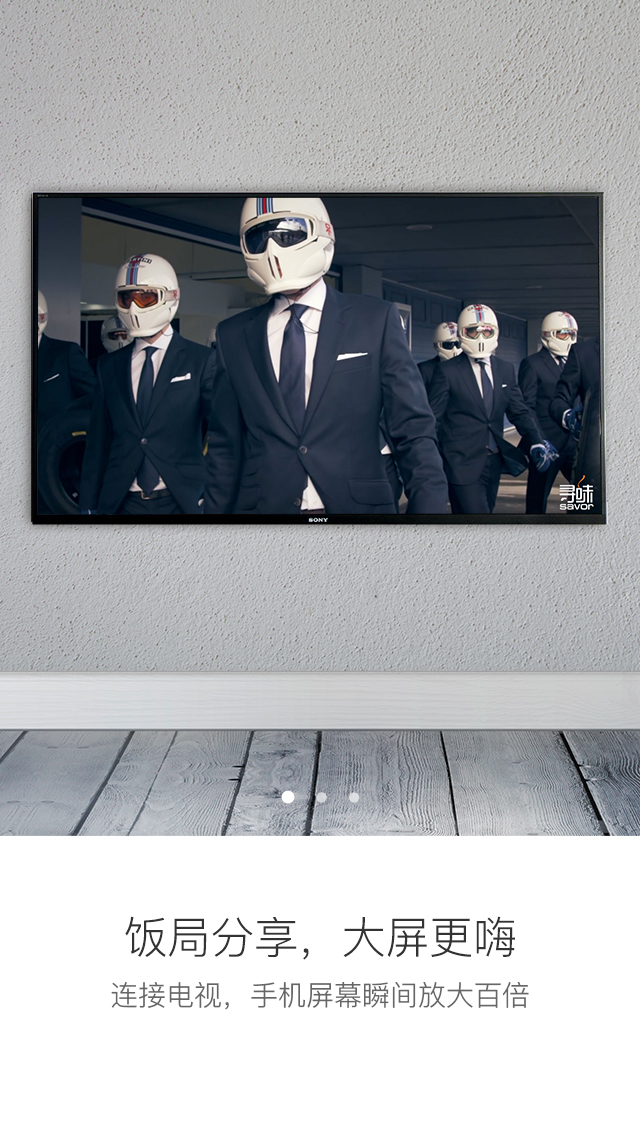
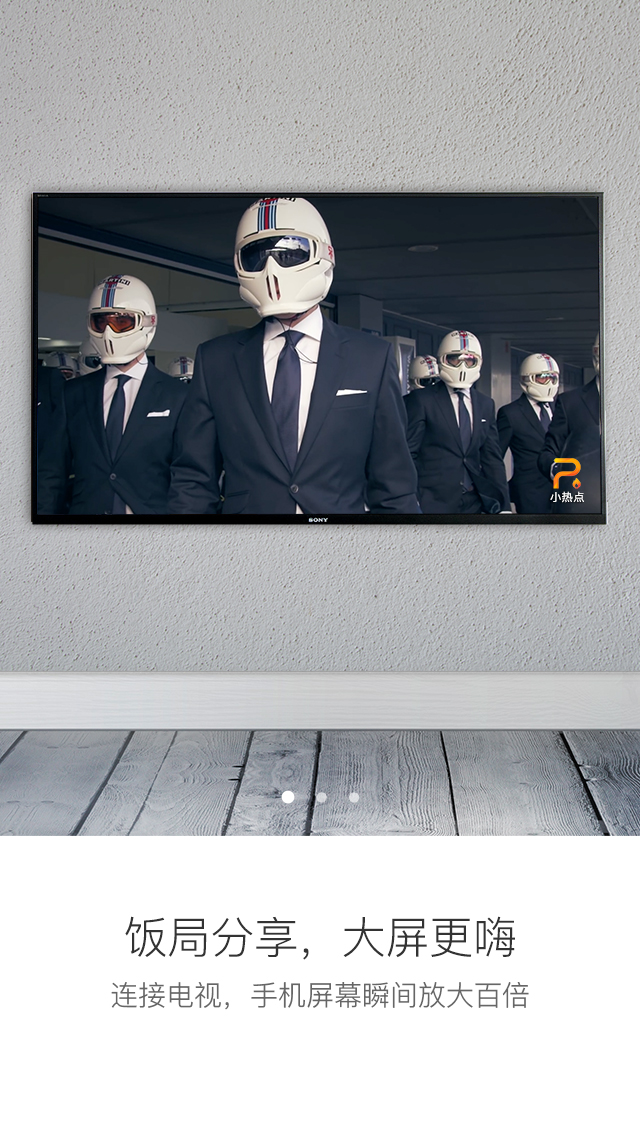
1、更改欢迎界面 2、优化首页和提示语适配 3、收藏界面增加分类标识 4、优化退出成功的全局通知

diff --git a/SavorX/SavorX/Views/Screen/PhotoEditTextView.m b/SavorX/SavorX/Views/Screen/PhotoEditTextView.m
@@ -63,7 +63,6 @@
     self.textField.leftView = [[UIView alloc] initWithFrame:CGRectMake(0, 0, 10, 30)];
     self.textField.leftViewMode = UITextFieldViewModeAlways;
     self.textField.delegate = self;
-    [self.textField addTarget:self action:@selector(textFieldDidChangeValue) forControlEvents:UIControlEventEditingChanged];
     [self.toolView addSubview:self.textField];
     
     UIButton * OKButton = [UIButton buttonWithType:UIButtonTypeCustom];
@@ -73,6 +72,7 @@
     [OKButton addTarget:self action:@selector(OKButtonDidBeClicked:) forControlEvents:UIControlEventTouchUpInside];
     [self.toolView addSubview:OKButton];
     
+    [[NSNotificationCenter defaultCenter] addObserver:self selector:@selector(textFieldValueDidBeChange:) name:UITextFieldTextDidChangeNotification object:nil];
     [[NSNotificationCenter
       defaultCenter] addObserver:self selector:@selector(keyboardWillShow:)
      name:UIKeyboardWillShowNotification object:nil];
@@ -81,18 +81,50 @@
      name:UIKeyboardWillHideNotification object:nil];//在这里注册通知
 }
 
-- (BOOL)textField:(UITextField *)textField shouldChangeCharactersInRange:(NSRange)range replacementString:(NSString *)string
+- (void)textFieldValueDidBeChange:(NSNotification *)obj
 {
-    if (self.style == PhotoEditTextStyleTitle) {
-        if (self.textField.text.length + string.length > 16) {
-            [MBProgressHUD showTextHUDwithTitle:@"最多只能添加16个字"];
-            return NO;
-        }
-    }else if (self.textField.text.length + string.length > 20){
-        [MBProgressHUD showTextHUDwithTitle:@"最多只能添加20个字"];
-        return NO;
+    UITextField *textField = (UITextField *)obj.object;
+    
+    NSString *toBeString = textField.text;
+    if (toBeString.length == 0) {
+        self.textLabel.text = @"点击输入文字";
+        return;
+    }else{
+        self.textLabel.text = toBeString;
     }
-    return YES;
+    
+    NSString *lang = [textField.textInputMode primaryLanguage]; // 键盘输入模式
+    
+    if ([lang isEqualToString:@"zh-Hans"]) { // 简体中文输入，包括简体拼音，健体五笔，简体手写
+        UITextRange *selectedRange = [textField markedTextRange];
+        //获取高亮部分
+        UITextPosition *position = [textField positionFromPosition:selectedRange.start offset:0];
+        
+        // 没有高亮选择的字，则对已输入的文字进行字数统计和限制
+        if (!position) {
+            
+            if (self.style == PhotoEditTextStyleTitle) {
+                if (toBeString.length > 16) {
+                    textField.text = [toBeString substringToIndex:16];
+                    [MBProgressHUD showTextHUDwithTitle:@"最多输入16个字符"];
+                }
+            }else if (toBeString.length > 20) {
+                textField.text = [toBeString substringToIndex:20];
+                [MBProgressHUD showTextHUDwithTitle:@"最多输入20个字符"];
+            }
+        }
+        // 有高亮选择的字符串，则暂不对文字进行统计和限制
+        else{
+            
+        }
+    }
+    // 中文输入法以外的直接对其统计限制即可，不考虑其他语种情况
+    else{
+        if (toBeString.length > 16) {
+            textField.text = [toBeString substringToIndex:16];
+            [MBProgressHUD showTextHUDwithTitle:@"最多输入16个字符"];
+        }
+    }
 }
 
 - (void)textLabelDidBeClicked
@@ -134,15 +166,6 @@
     
     [self removeFromSuperview];
     self.textLabel.frame = CGRectMake(40, -70, self.bounds.size.width - 80, 70);
-}
-
-- (void)textFieldDidChangeValue
-{
-    if (self.textField.text.length == 0) {
-        self.textLabel.text = @"点击输入文字";
-    }else{
-        self.textLabel.text = self.textField.text;
-    }
 }
 
 #pragma mark - 监听方法

diff --git a/SavorX/SavorX/Controllers/HomePage/RecommendViewController.m b/SavorX/SavorX/Controllers/HomePage/RecommendViewController.m
@@ -158,15 +158,21 @@
         NSDictionary * dict = response[@"result"];
         
         NSArray * vodArray = [dict objectForKey:@"vodList"];
-        for (NSInteger i = 0; i < vodArray.count; i++) {
-            NSDictionary * vodDict = [vodArray objectAtIndex:i];
-            HSVodModel * model = [[HSVodModel alloc] initWithDictionary:vodDict];
-            [self.dataSource addObject:model];
+        
+        if (vodArray) {
+            for (NSInteger i = 0; i < vodArray.count; i++) {
+                NSDictionary * vodDict = [vodArray objectAtIndex:i];
+                HSVodModel * model = [[HSVodModel alloc] initWithDictionary:vodDict];
+                [self.dataSource addObject:model];
+            }
+            self.pageNo++;
+            self.lastDownTime = [[dict objectForKey:@"time"] integerValue];
+            [self.tableView reloadData];
+            [self.tableView.mj_footer endRefreshing];
+        }else{
+            [self.tableView.mj_footer endRefreshingWithNoMoreData];
         }
-        self.pageNo++;
-        self.lastDownTime = [[dict objectForKey:@"time"] integerValue];
-        [self.tableView reloadData];
-        [self.tableView.mj_footer endRefreshing];
+        
     } businessFailure:^(BGNetworkRequest * _Nonnull request, id  _Nullable response) {
         if ([[response objectForKey:@"code"] integerValue] == 10060) {
             [self.tableView.mj_footer endRefreshingWithNoMoreData];
@@ -233,13 +239,15 @@
         return;
     }
     
+    CGFloat width = MIN(kMainBoundsHeight, kMainBoundsWidth);
+    
     NSMutableArray * array = [NSMutableArray new];
     
     for (NSInteger i = 0; i < self.adSourcel.count; i++) {
         HSAdsModel * model = [self.adSourcel objectAtIndex:i];
         [array addObject:model.imageURL];
     }
-    self.scrollView = [SDCycleScrollView cycleScrollViewWithFrame:CGRectMake(0, 5, kMainBoundsWidth, [Helper autoHomePageCellImageHeight]) imageURLStringsGroup:array];
+    self.scrollView = [SDCycleScrollView cycleScrollViewWithFrame:CGRectMake(0, 5, width, [Helper autoHomePageCellImageHeight]) imageURLStringsGroup:array];
     [self.scrollView setHotelTitle:self.hotelName];
     self.scrollView.delegate = self;
     [self.headView addSubview:self.scrollView];
@@ -463,10 +471,13 @@
 - (UIView *)headView
 {
     if (!_headView) {
-        _headView = [[UIView alloc] initWithFrame:CGRectMake(0, 0, kMainBoundsWidth, [Helper autoHomePageCellImageHeight] + 55)];
+        
+        CGFloat width = MIN(kMainBoundsHeight, kMainBoundsWidth);
+        
+        _headView = [[UIView alloc] initWithFrame:CGRectMake(0, 0, width, [Helper autoHomePageCellImageHeight] + 55)];
         _headView.backgroundColor = VCBackgroundColor;
         
-        UILabel * label = [[UILabel alloc] initWithFrame:CGRectMake(0, [Helper autoHomePageCellImageHeight] + 5, kMainBoundsWidth, 55)];
+        UILabel * label = [[UILabel alloc] initWithFrame:CGRectMake(0, [Helper autoHomePageCellImageHeight] + 5, width, 55)];
         label.font = [UIFont boldSystemFontOfSize:16];
         label.textColor = UIColorFromRGB(0x444444);
         label.textAlignment = NSTextAlignmentCenter;

diff --git a/SavorX/SavorX/Tools/SavorXAPI/SAVORXAPI.m b/SavorX/SavorX/Tools/SavorXAPI/SAVORXAPI.m
@@ -256,19 +256,23 @@
 
 + (void)ScreenDemandShouldBackToTV
 {
-    [[HomeAnimationView animationView] stopScreen];
-    [[NSNotificationCenter defaultCenter] postNotificationName:RDQiutScreenNotification object:nil];
     if ([GlobalData shared].isBindRD) {
         NSDictionary *parameters = @{@"function": @"stop",
                                      @"sessionid": [NSNumber numberWithInt:-1],
                                      @"reason": [NSNumber numberWithInt:0]};
         [SAVORXAPI postWithURL:STBURL parameters:parameters success:^(NSURLSessionDataTask *task, NSDictionary *result) {
             
+            [[HomeAnimationView animationView] stopScreen];
+            [[NSNotificationCenter defaultCenter] postNotificationName:RDQiutScreenNotification object:nil];
+            
         } failure:^(NSURLSessionDataTask *task, NSError *error) {
             
         }];
     }else if ([GlobalData shared].isBindDLNA) {
         [[GCCUPnPManager defaultManager] stopSuccess:^{
+            
+            [[HomeAnimationView animationView] stopScreen];
+            [[NSNotificationCenter defaultCenter] postNotificationName:RDQiutScreenNotification object:nil];
             
         } failure:^{
             
@@ -278,19 +282,24 @@
 
 + (void)ScreenDemandShouldBackToTVWithSuccess:(void (^)())successBlock failure:(void (^)())failureBlock
 {
-    [[HomeAnimationView animationView] stopScreen];
-    [[NSNotificationCenter defaultCenter] postNotificationName:RDQiutScreenNotification object:nil];
     if ([GlobalData shared].isBindRD) {
         NSDictionary *parameters = @{@"function": @"stop",
                                      @"sessionid": [NSNumber numberWithInt:-1],
                                      @"reason": [NSNumber numberWithInt:0]};
         [SAVORXAPI postWithURL:STBURL parameters:parameters success:^(NSURLSessionDataTask *task, NSDictionary *result) {
+            [[HomeAnimationView animationView] stopScreen];
+            [[NSNotificationCenter defaultCenter] postNotificationName:RDQiutScreenNotification object:nil];
+            
             successBlock();
+            
         } failure:^(NSURLSessionDataTask *task, NSError *error) {
             failureBlock();
         }];
     }else if ([GlobalData shared].isBindDLNA) {
         [[GCCUPnPManager defaultManager] stopSuccess:^{
+            [[HomeAnimationView animationView] stopScreen];
+            [[NSNotificationCenter defaultCenter] postNotificationName:RDQiutScreenNotification object:nil];
+            
             successBlock();
         } failure:^{
             failureBlock();

diff --git a/SavorX/SavorX/HelpLibs/WMPageController/WMPageController.m b/SavorX/SavorX/HelpLibs/WMPageController/WMPageController.m
@@ -813,7 +813,7 @@ static NSInteger const kWMControllerCountUndefined = -1;
     CGFloat oldContentOffsetX = self.scrollView.contentOffset.x;
     CGFloat contentWidth = self.scrollView.contentSize.width;
     scrollFrame.origin.y -= self.showOnNavigationBar && self.navigationController.navigationBar ? self.menuHeight : 0;
-    scrollFrame.origin.y = [Helper autoHeightWith:40];
+    scrollFrame.origin.y = self.menuHeight;
     self.scrollView.frame = scrollFrame;
     self.scrollView.contentSize = CGSizeMake(self.childControllersCount * _viewWidth, 0);
     CGFloat xContentOffset = contentWidth == 0 ? self.selectIndex * _viewWidth : oldContentOffsetX / contentWidth * self.childControllersCount * _viewWidth;
@@ -852,7 +852,7 @@ static NSInteger const kWMControllerCountUndefined = -1;
         }];
         CGFloat navHeight = self.navigationController.navigationBar.frame.size.height;
         menuHeight = self.menuHeight > navHeight ? navHeight : self.menuHeight;
-        menuY = (navHeight - menuHeight) / 2;
+//        menuY = (navHeight - menuHeight) / 2;
     }
     CGFloat menuWidth = _viewWidth - menuX - rightWidth;
     self.menuView.frame = CGRectMake(menuX, menuY, menuWidth, menuHeight);
@@ -1143,6 +1143,7 @@ static NSInteger const kWMControllerCountUndefined = -1;
     }
     [self.titleViewBtn setTitle:@"热点儿" forState:UIControlStateNormal];
     self.navigationItem.rightBarButtonItem = [[UIBarButtonItem alloc] initWithCustomView:self.rightItem];
+    [self.rightItem stopAnimation];
     self.titleViewBtn.userInteractionEnabled = NO;
 
 }

diff --git a/SavorX/SavorX/Controllers/FavoriteViewController.m b/SavorX/SavorX/Controllers/FavoriteViewController.m
@@ -8,7 +8,7 @@
 
 #import "FavoriteViewController.h"
 #import "WebViewController.h"
-#import "BasicTableViewCell.h"
+#import "HomePageCell.h"
 #import "UIImageView+WebCache.h"
 #import "UMCustomSocialManager.h"
 
@@ -74,9 +74,9 @@
 #pragma mark -- UITableViewDataSource
 - (UITableViewCell *)tableView:(UITableView *)tableView cellForRowAtIndexPath:(NSIndexPath *)indexPath
 {
-    BasicTableViewCell * cell = [tableView dequeueReusableCellWithIdentifier:FavoriteCell];
+    HomePageCell * cell = [tableView dequeueReusableCellWithIdentifier:FavoriteCell];
     if (nil == cell) {
-        cell = [[BasicTableViewCell alloc] initWithStyle:UITableViewCellStyleDefault reuseIdentifier:FavoriteCell];
+        cell = [[HomePageCell alloc] initWithStyle:UITableViewCellStyleDefault reuseIdentifier:FavoriteCell];
         cell.selectionStyle = UITableViewCellSelectionStyleNone;
     }
     HSVodModel * model = [self.dataSource objectAtIndex:indexPath.section];
@@ -87,6 +87,7 @@
         [cell videoCanDemand:NO];
     }
     
+    cell.categroyLabel.text = [NSString stringWithFormat:@"# %@", model.category];
     [cell.bgImageView sd_setImageWithURL:[NSURL URLWithString:[model.imageURL stringByAddingPercentEscapesUsingEncoding:NSUTF8StringEncoding]] placeholderImage:[UIImage imageNamed:@"placeholderImage"]];
     cell.titleLabel.text = model.title;
     

diff --git a/SavorX/SavorX/HelpLibs/MBProgressHUD+Custom/MBProgressHUD+Custom.m b/SavorX/SavorX/HelpLibs/MBProgressHUD+Custom/MBProgressHUD+Custom.m
@@ -198,6 +198,11 @@
         label.font = [UIFont systemFontOfSize:17];
         [view addSubview:label];
         [[UIApplication sharedApplication].keyWindow addSubview:view];
+        [view mas_makeConstraints:^(MASConstraintMaker *make) {
+            make.width.mas_equalTo(rect.size.width + 30);
+            make.height.mas_equalTo(rect.size.height + 20);
+            make.center.mas_equalTo([UIApplication sharedApplication].keyWindow);
+        }];
         
         [UIView animateWithDuration:0.5f delay:2.5f options:UIViewAnimationOptionCurveEaseInOut animations:^{
             view.alpha = 0.f;

diff --git a/SavorX/SavorX/Helper/Helper.m b/SavorX/SavorX/Helper/Helper.m
@@ -161,14 +161,16 @@
 + (CGFloat)autoHomePageCellImageHeight
 {
     CGFloat scale = 400.f / 750;
-    CGFloat result = kMainBoundsWidth * scale;
+    CGFloat width = MIN(kMainBoundsHeight, kMainBoundsWidth);
+    CGFloat result = width * scale;
     return result;
 }
 
 + (CGFloat)autoHomePageCellTitleLabelHeight
 {
     CGFloat scale = 100.f / 750;
-    CGFloat result = kMainBoundsWidth * scale;
+    CGFloat height = MAX(kMainBoundsWidth, kMainBoundsHeight);
+    CGFloat result = height * scale;
     return result;
 }
 
